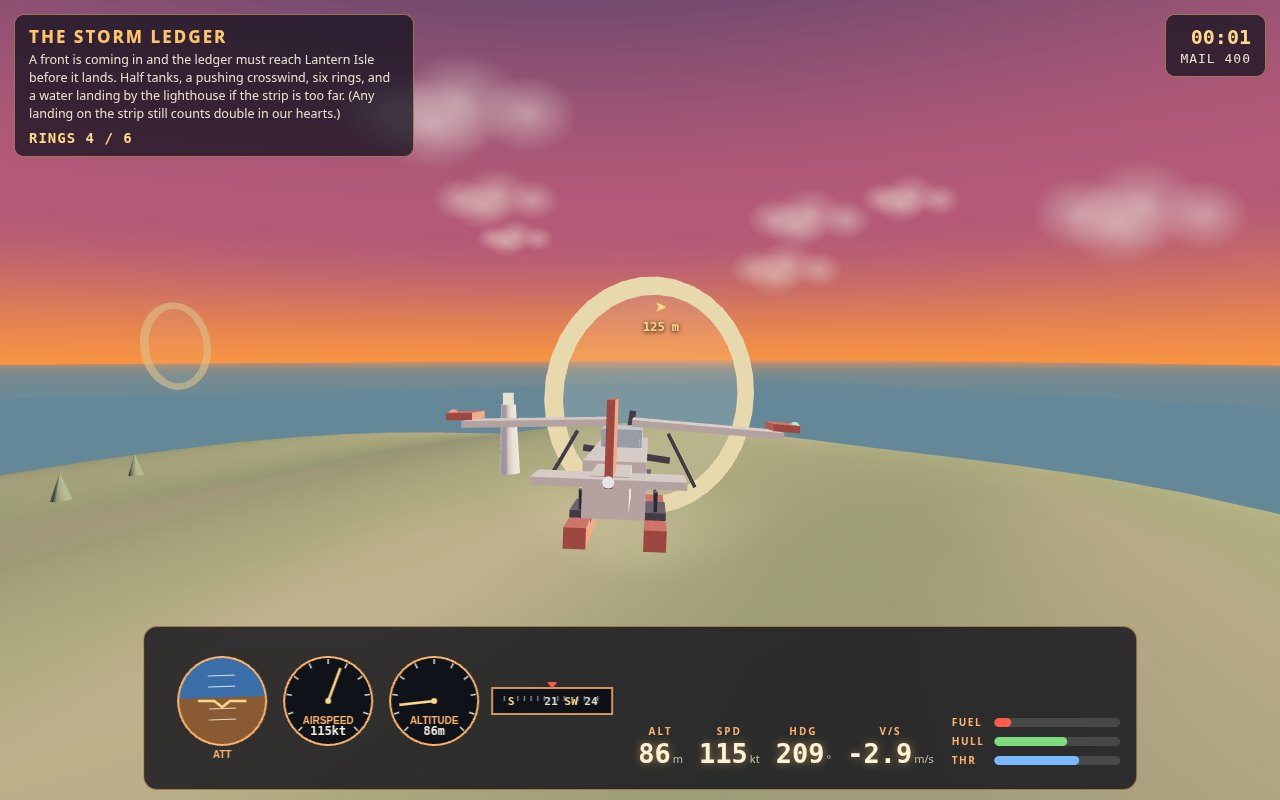
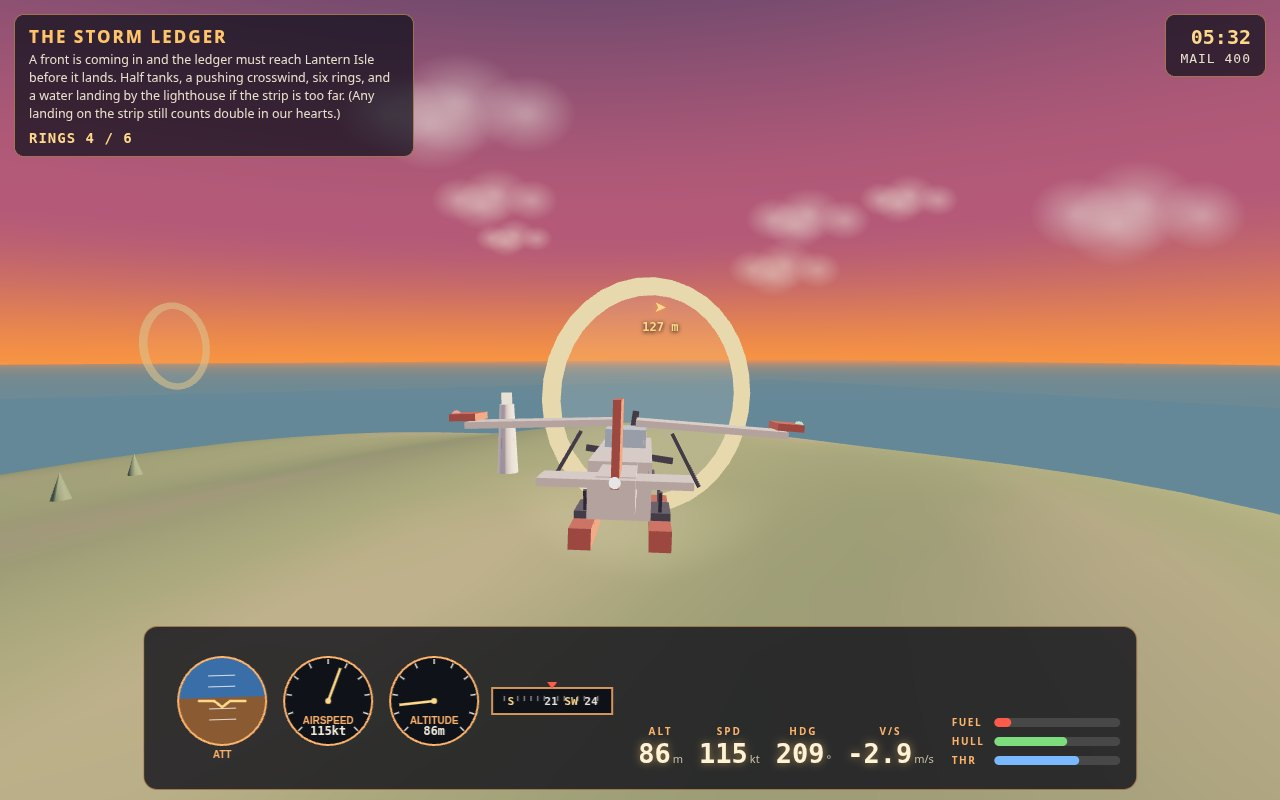
V4 screenshot sheet: harbour hero cover, canyon climb, storm stakes, slow final approach flare

diff --git a/README.md b/README.md
@@ -60,18 +60,20 @@ mkdir -p out && MAKEFUN_OUTPUT_DIR=out node main.ts
 
 The screenshots in `screenshots/` are real renders of this game's own code,
 taken by its maker in a headless browser from staged scenes
-(`game/src/main.js` answers `?shot=cover|menu|coast|summit|stakes|progress|result|landing`).
+(`game/src/main.js` answers `?shot=cover|canyon|menu|coast|summit|stakes|progress|result|landing`).
 Every frame is in flight, panel lit, the sortie under way:
 
-- `01-cover.jpg` — threading the Thread canyon, third ring close ahead,
-  walls on both shoulders, the panel lit at 122 kt.
-- `02-harbour-coast.jpg` — the Harbour Chain over Port Meridian's towers:
-  third ring lit ahead, a second abeam, RINGS 3/7 and MAIL 300 on the panel.
+- `01-cover.jpg` — the hero shot: the Kestrel big in frame inside the
+  third Harbour Chain ring over Port Meridian's towers, the game's title
+  treatment over the sky naming its systems (6 sorties, 35 golden rings,
+  fuel & hull stakes, rated landings), the panel live at 120 kt.
+- `02-canyon-climb.jpg` — climbing through the Thread canyon: third ring
+  filling the frame, walls on both shoulders, V/S +1.2 m/s on the panel.
 - `03-storm-stakes.jpg` — the Storm Ledger with the stakes showing: the
   fuel bar down to a red stub, the fifth ring ahead, Lantern Isle's
   lighthouse beyond it.
-- `04-runway-landing.jpg` — the rated landing itself: all five rings
-  flown, flaring over the home strip's threshold piano keys at 27 m,
-  V/S −2.2 m/s on the panel.
+- `04-final-approach.jpg` — the rated landing itself: all five rings
+  flown, flaring slow over the home strip's threshold piano keys at
+  30 m and 52 kt, throttle at a quarter on the panel.
 
 MIT licensed — see `LICENSE`.
